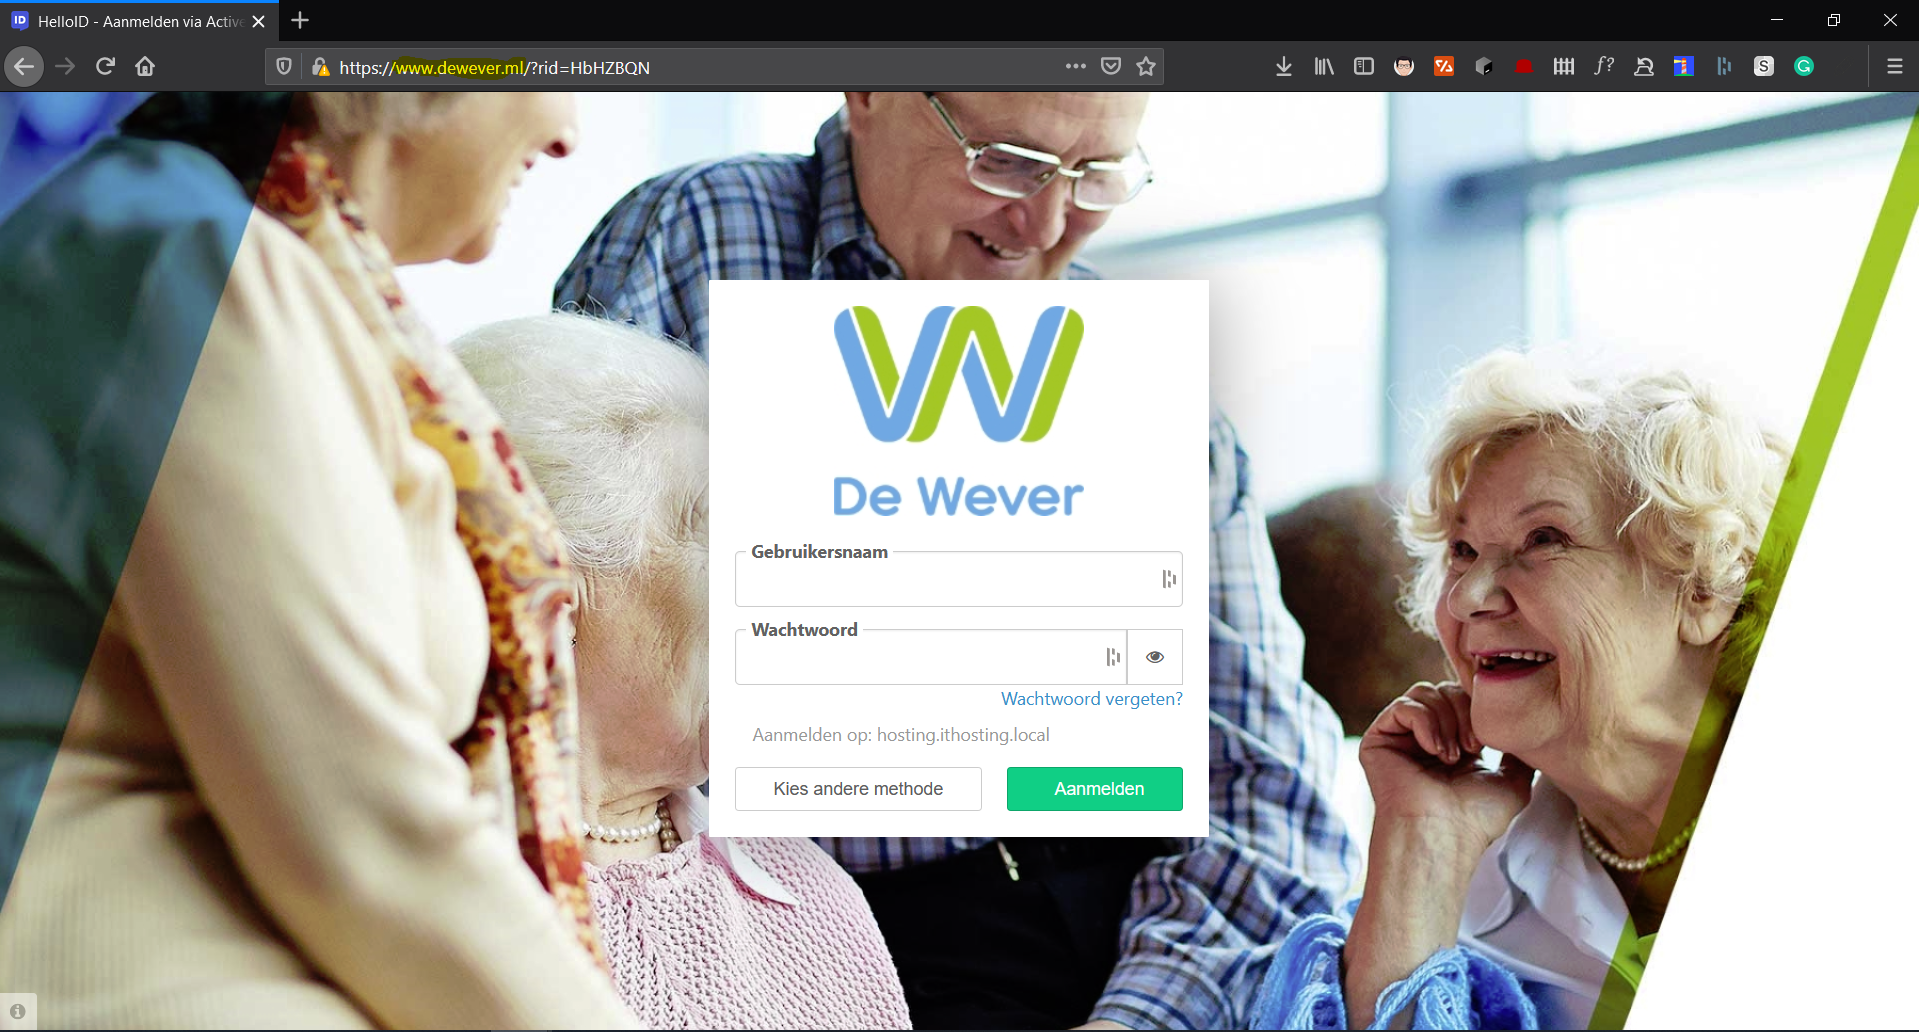
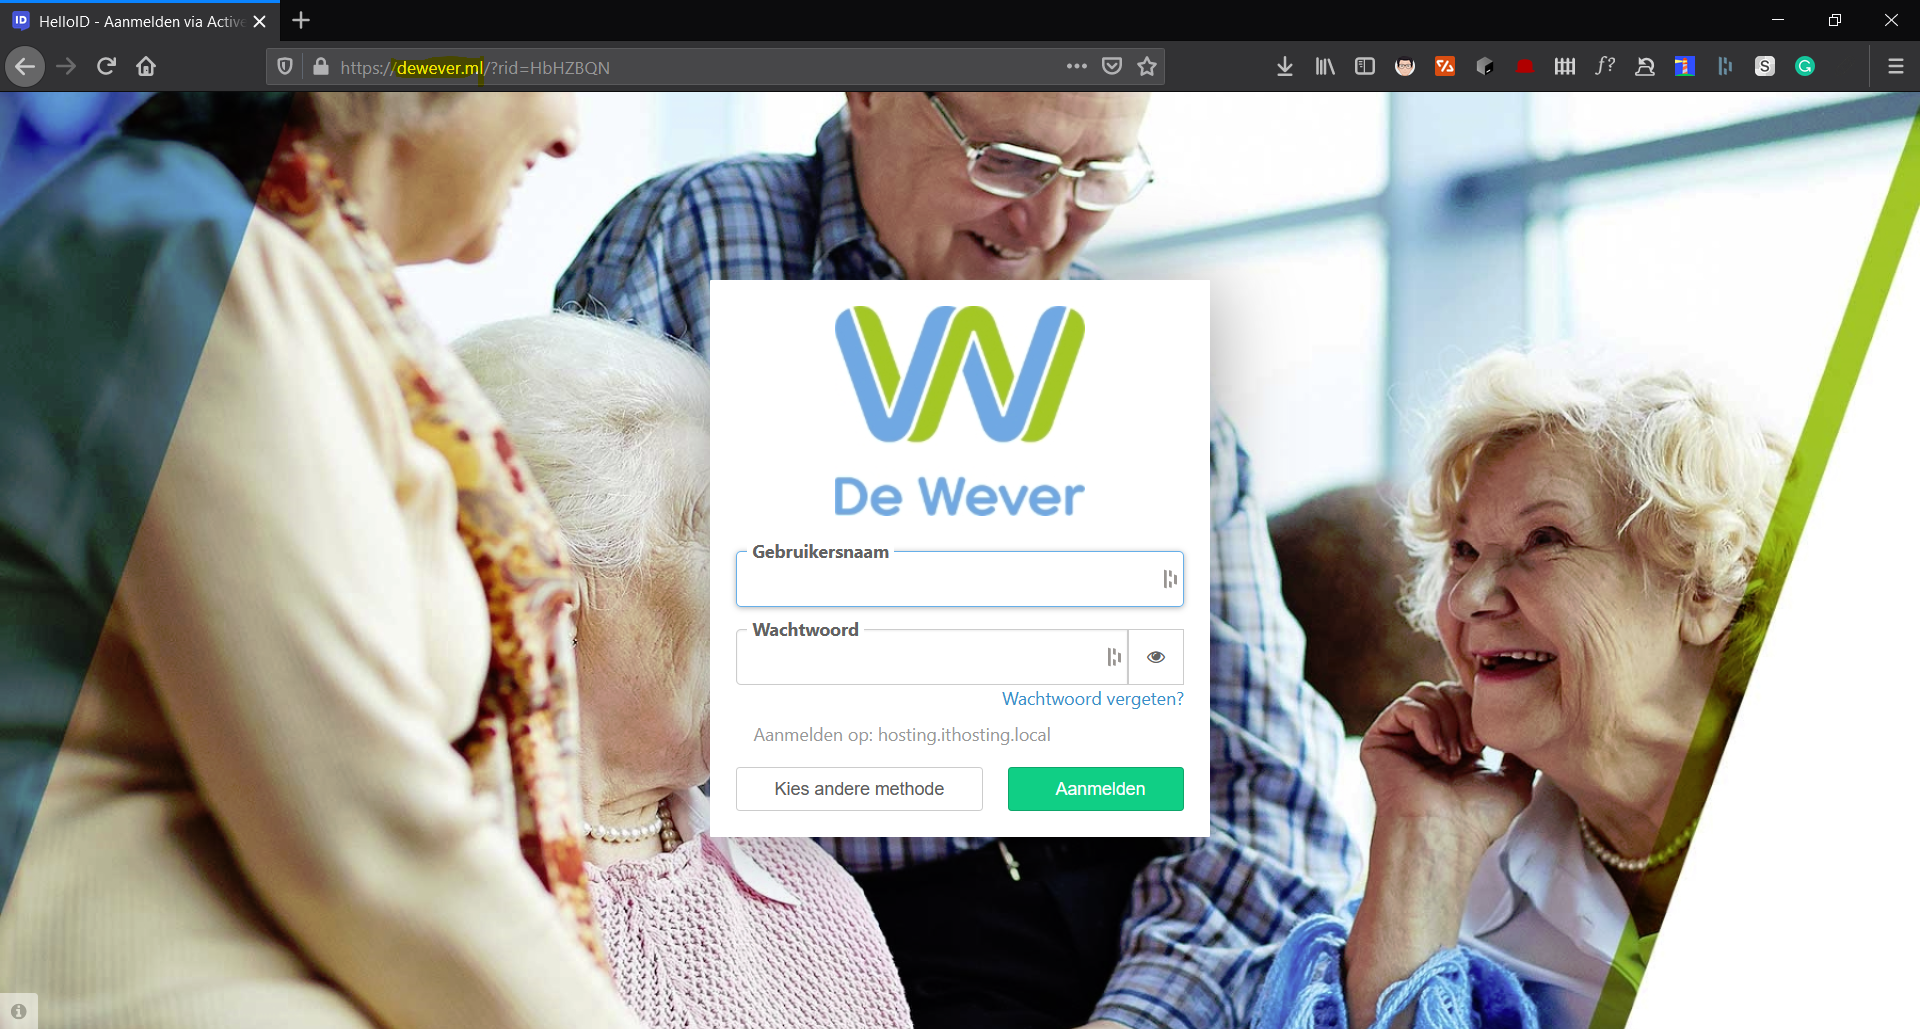
landing page finishing up

diff --git a/wever.md b/wever.md
@@ -22,7 +22,12 @@ The campaigns can be planned and you get a clear overview of all the results.
 
 
 ### Landing Page
-
+For the landing page we looked for a portal or something of dewever quickly we found a employee portal which is perfect.
+We just imported the portal using the url and when we use it in our campaign you don't see anything.
+But notice the dewever.ml at the top which could be seen by the victim.
+We also added a free generated ssl certificate which is making the portal more trustworthy.
+When people fill in their info and click aanmelden they will be redirected to the real login page.
+And we will get that info without password in our campaign.
 ![Landing page fake](images/landingpage.png)
 
 ### SMTP Server
